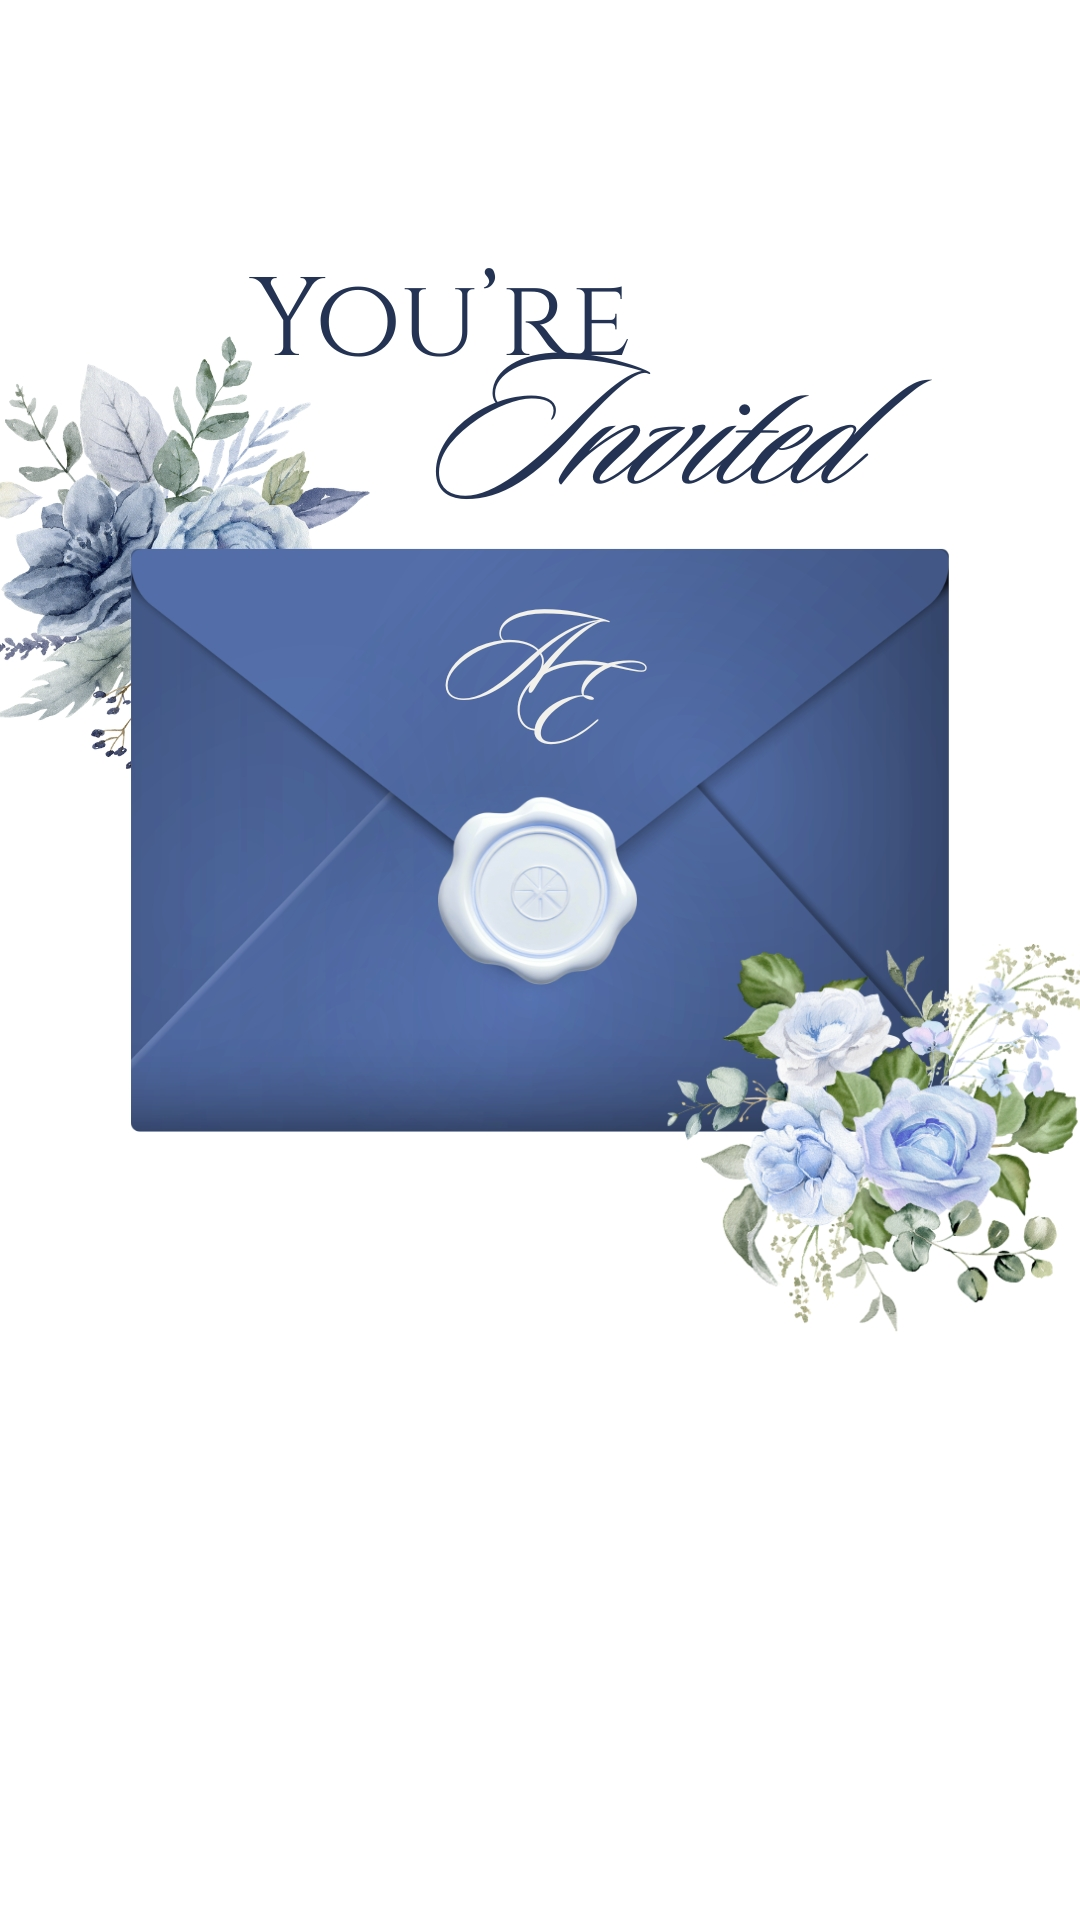
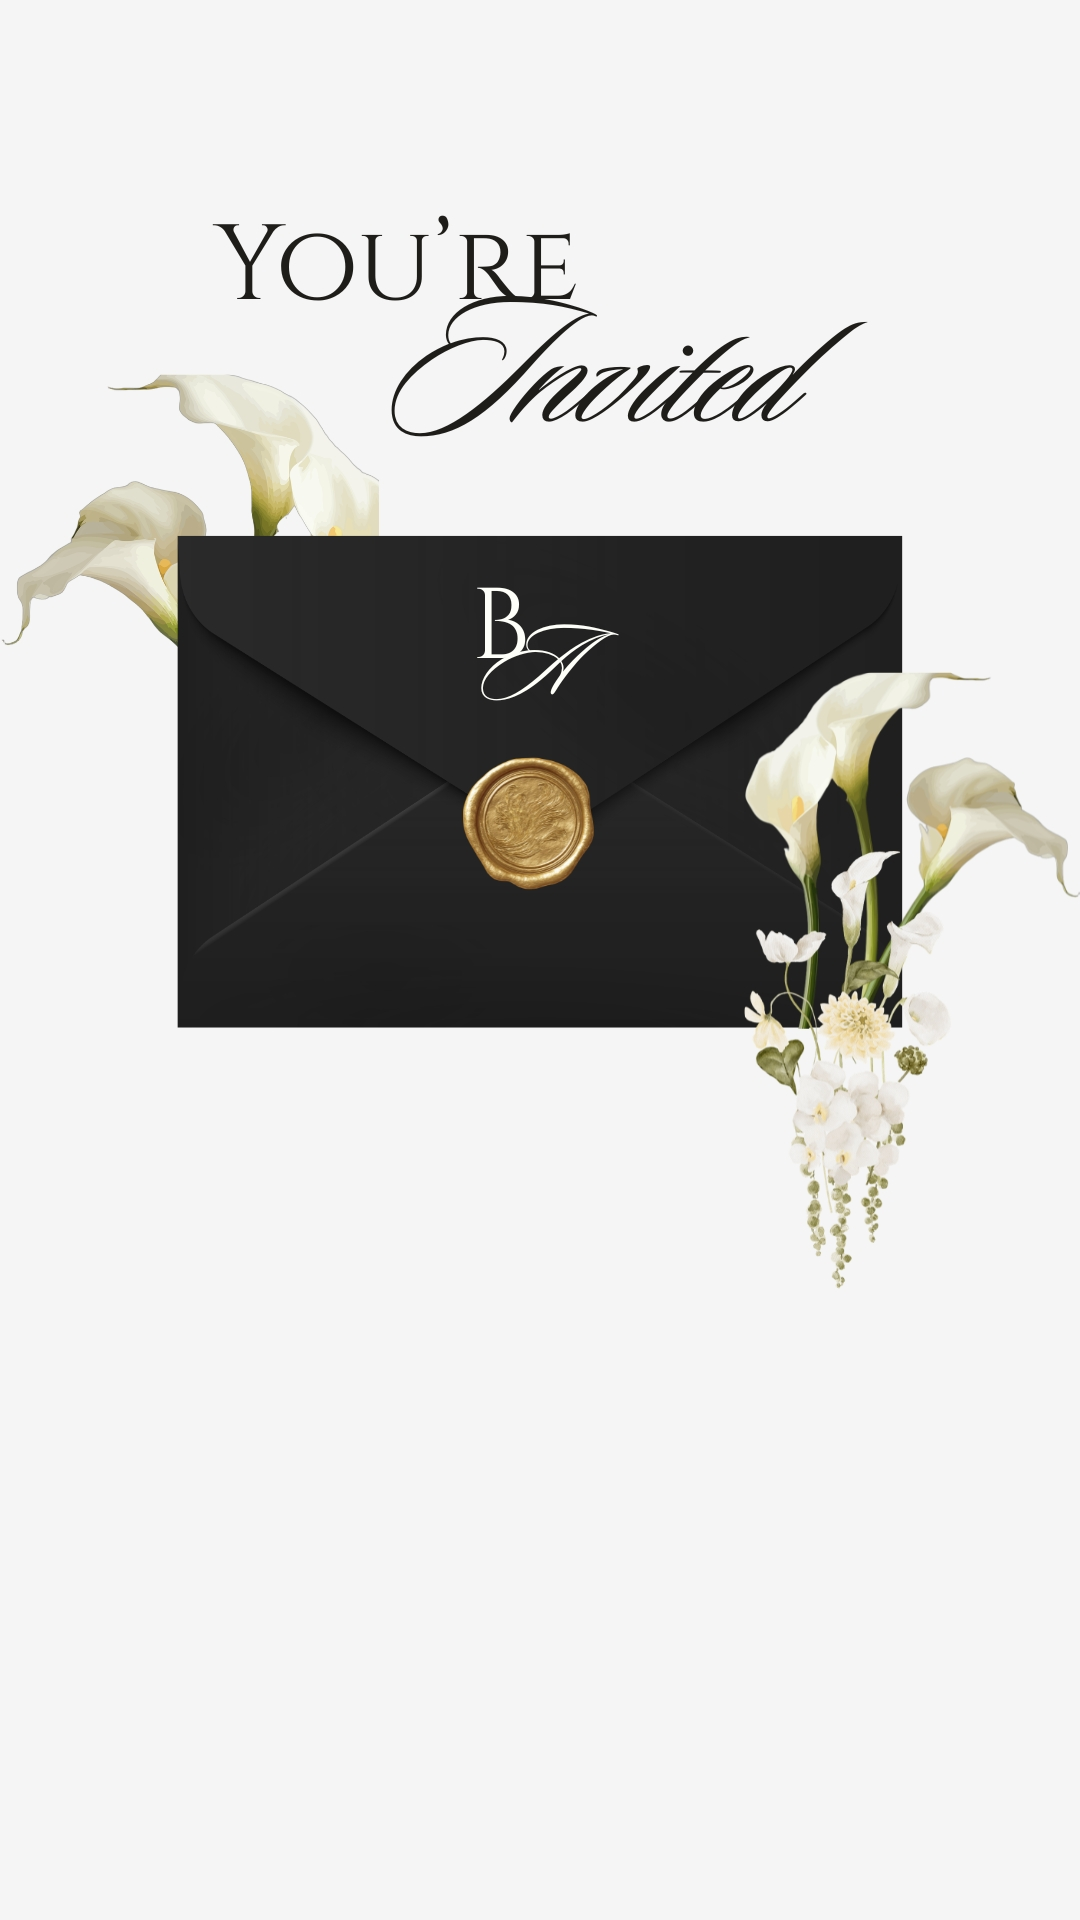
Add files via upload

diff --git a/index.html b/index.html
@@ -98,7 +98,7 @@
       width:100%;
       height:58px;
 
-      background:#a1b3dc;
+      background:#3a3a3a;
       color:#fff;
 
       border-radius:999px;
@@ -201,7 +201,7 @@
 
     // LINK UNDANGAN
     const invitationLink =
-      "https://wedding-ckcreative.my.canva.site/andika-ellen";
+      "https://wedding-ckcreative.my.canva.site/birin-amey";
 
     // TOMBOL BUKA UNDANGAN
     document
